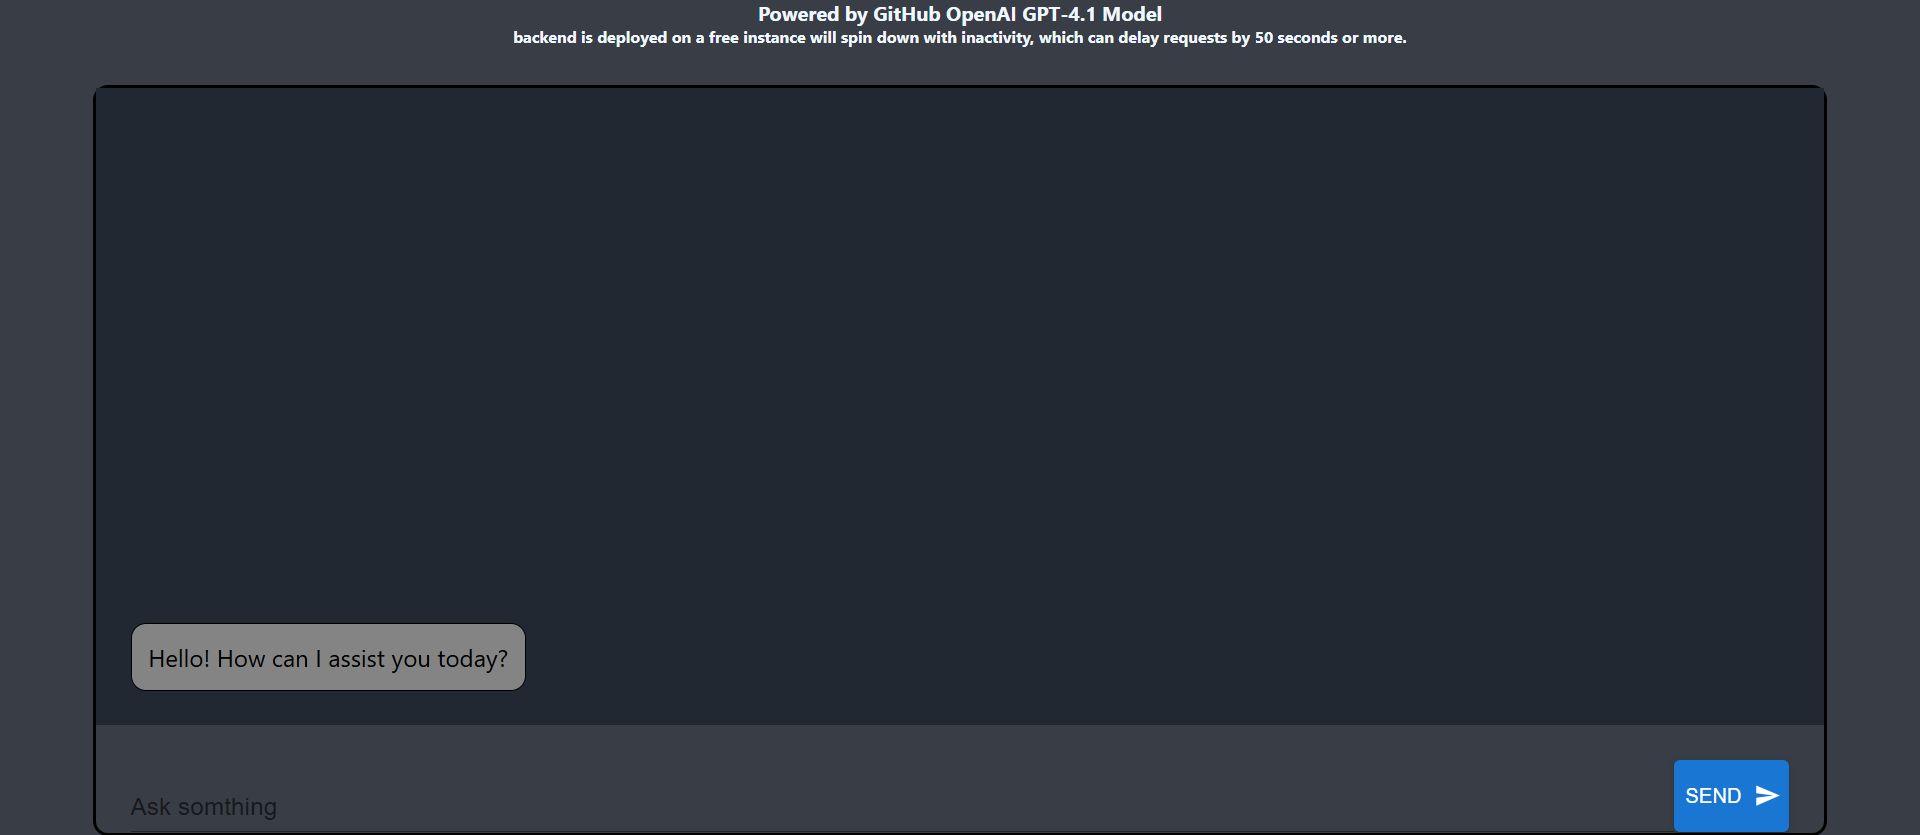
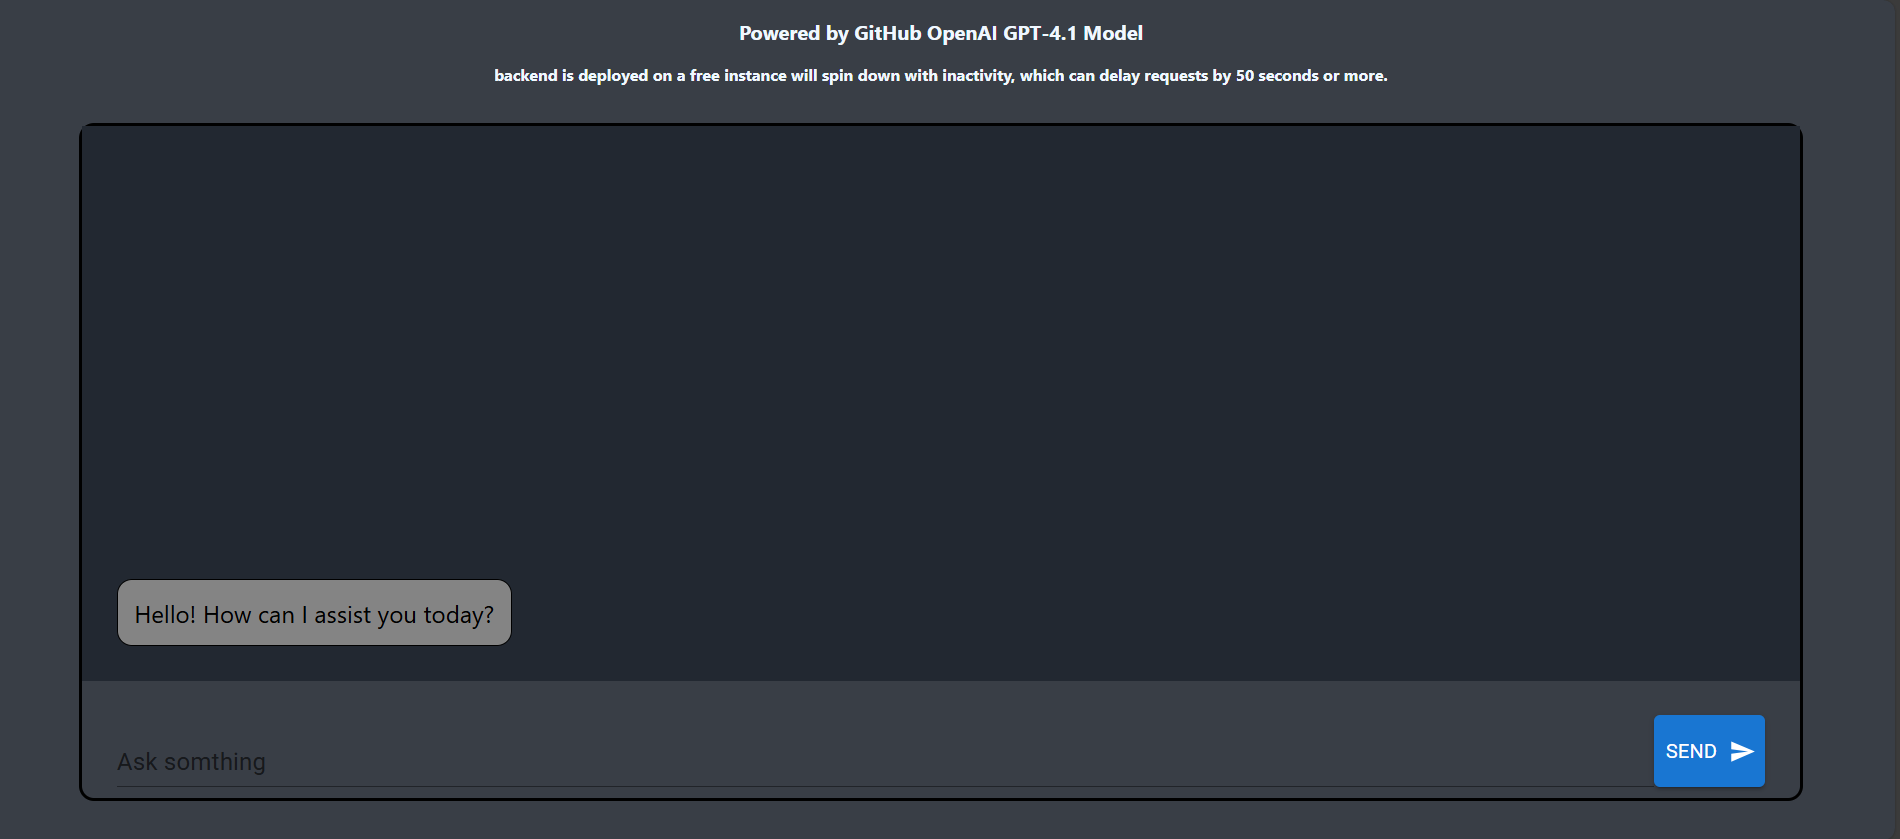
updated ui layout

Changed region(s): [[0.0311, 0.1868, 0.9626, 1.0], [0.0621, 0.0, 0.9316, 0.1246]]

diff --git a/ui/src/App.css b/ui/src/App.css
@@ -1,10 +1,11 @@
 .chat_container {
   margin: auto;
+  margin-bottom: 2%;
   display: flex;
   flex-wrap: wrap;
   margin-top: 2%;
   width: 90%;
-  height: 90vh;
+  height: 80vh;
   border: solid black;
   border-radius: 10px;
 }
@@ -23,7 +24,7 @@
 }
 
 .chat_message_container {
-  height: 77vh;
+  height: 66vh;
   width: 100%;
   align-content: flex-end;
   overflow: auto;
@@ -45,6 +46,7 @@
 
 .title {
   margin: auto;
+  margin-top: 1%;
   text-align: center;
   color: aliceblue;
 }
